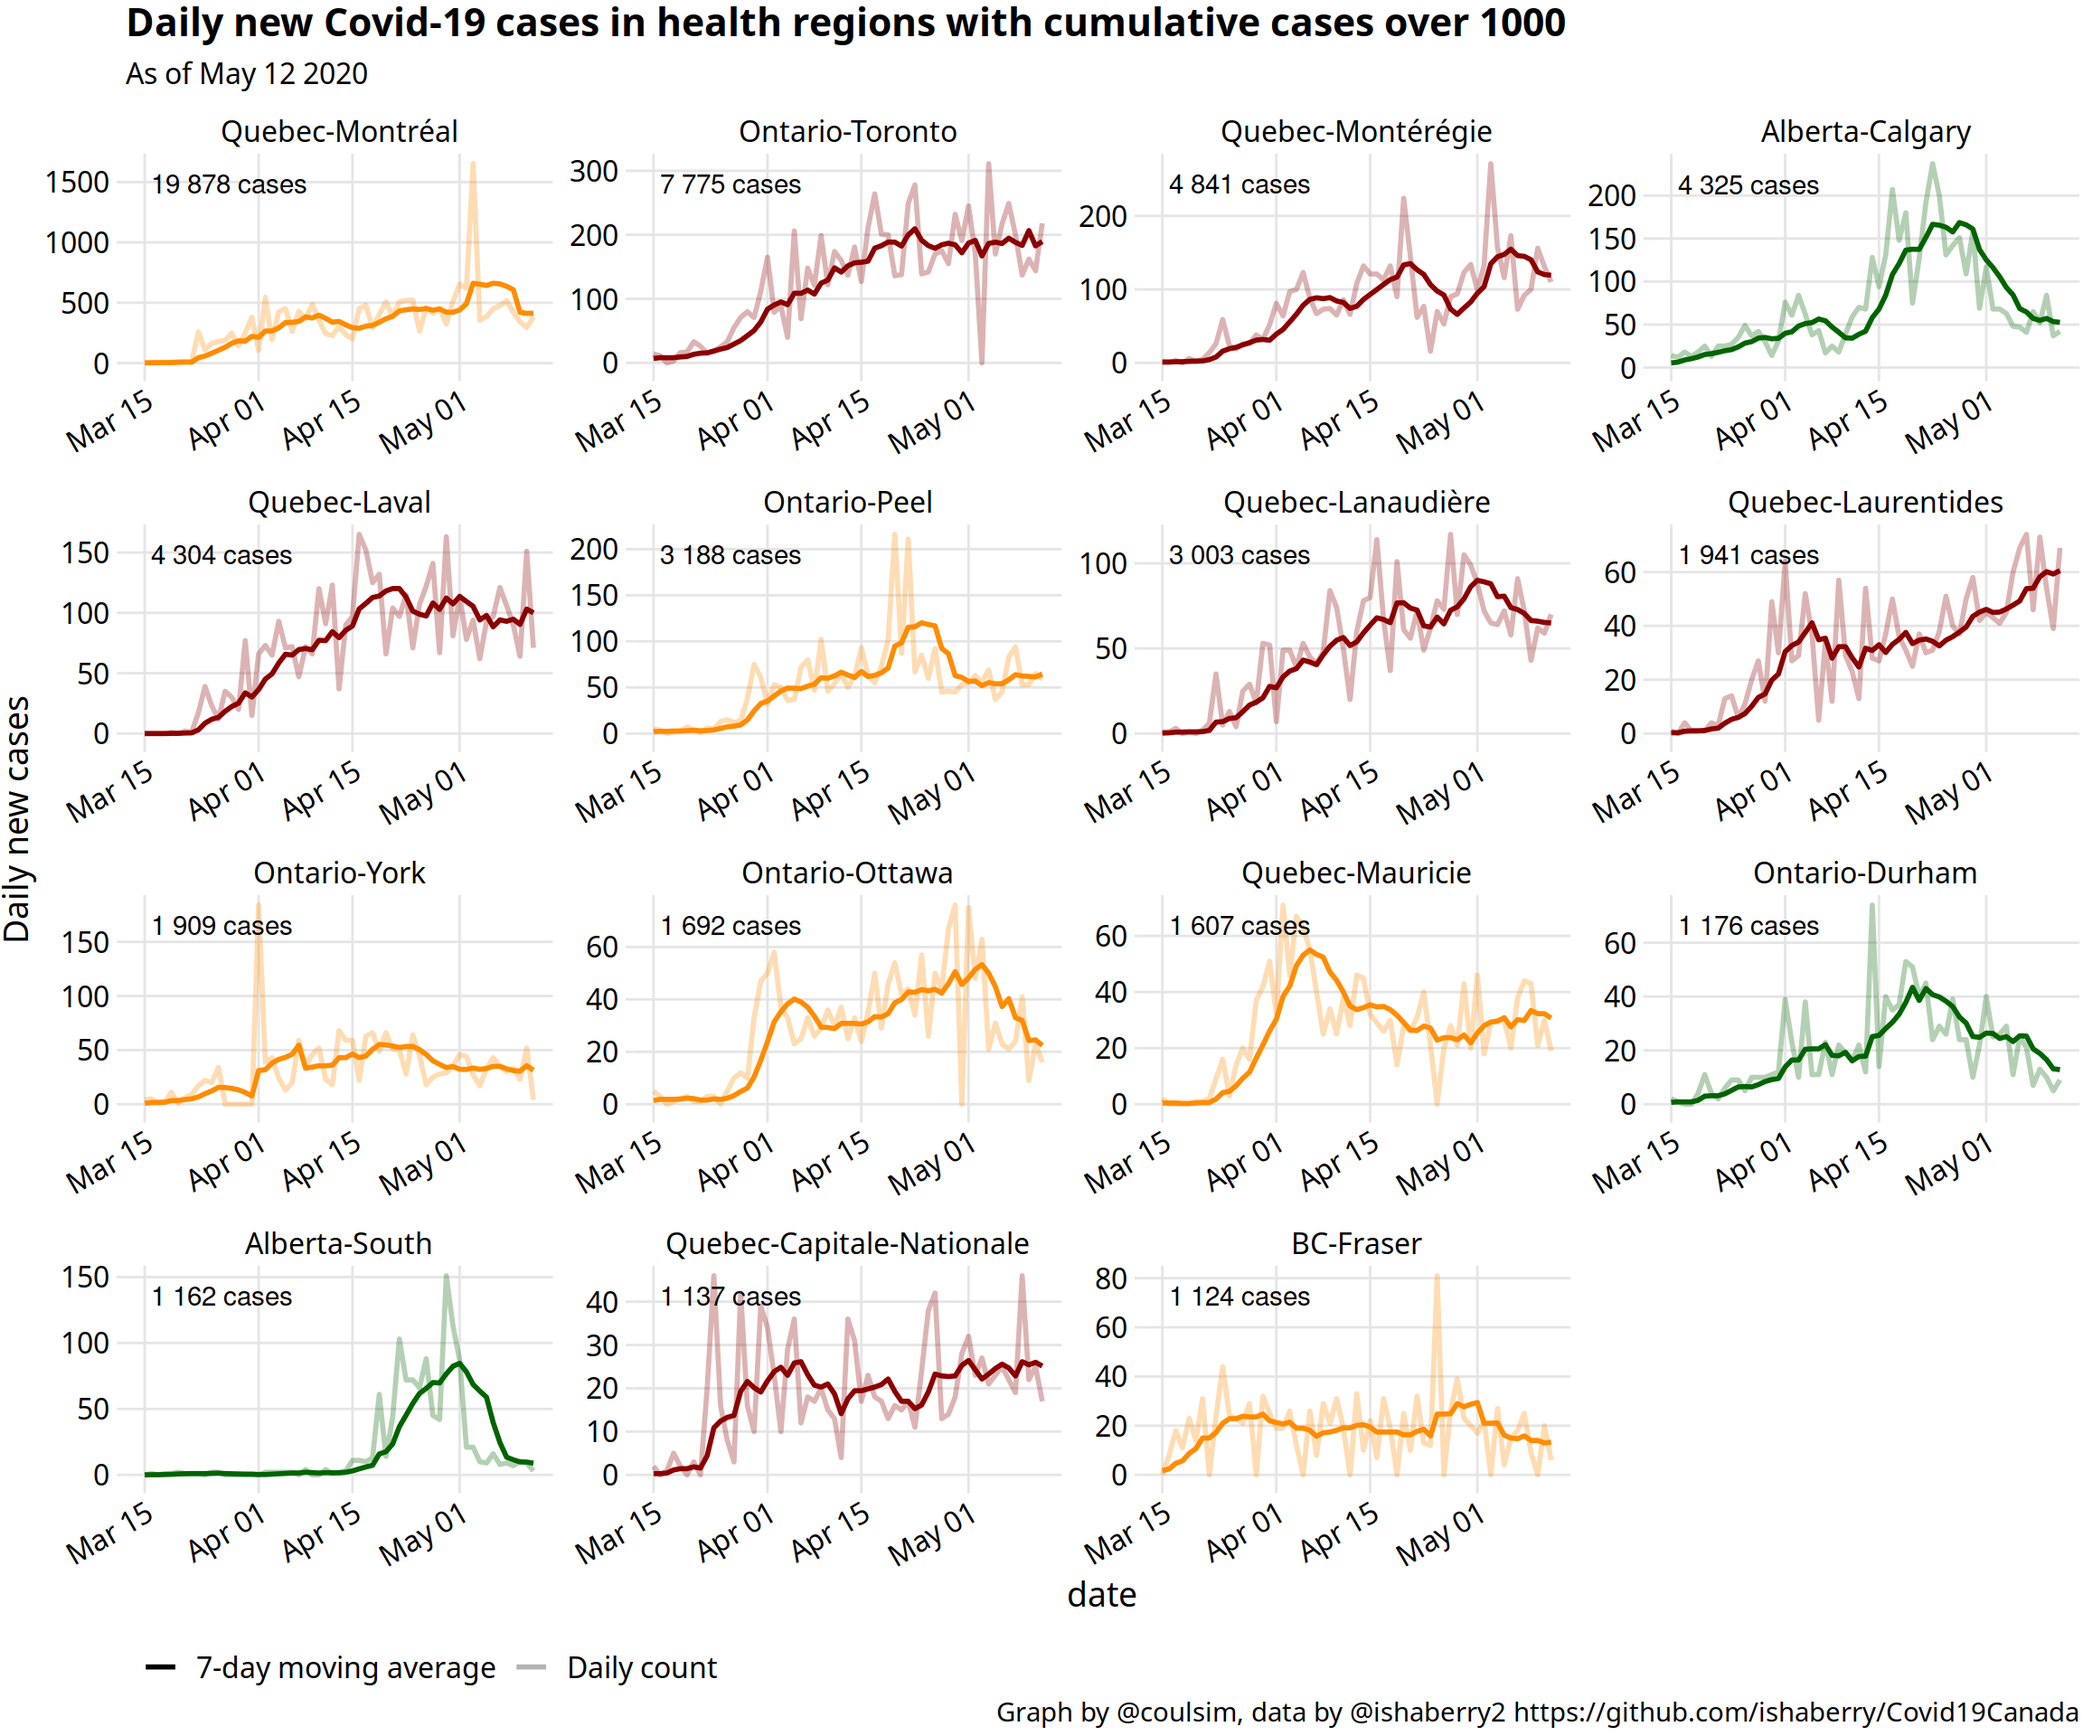
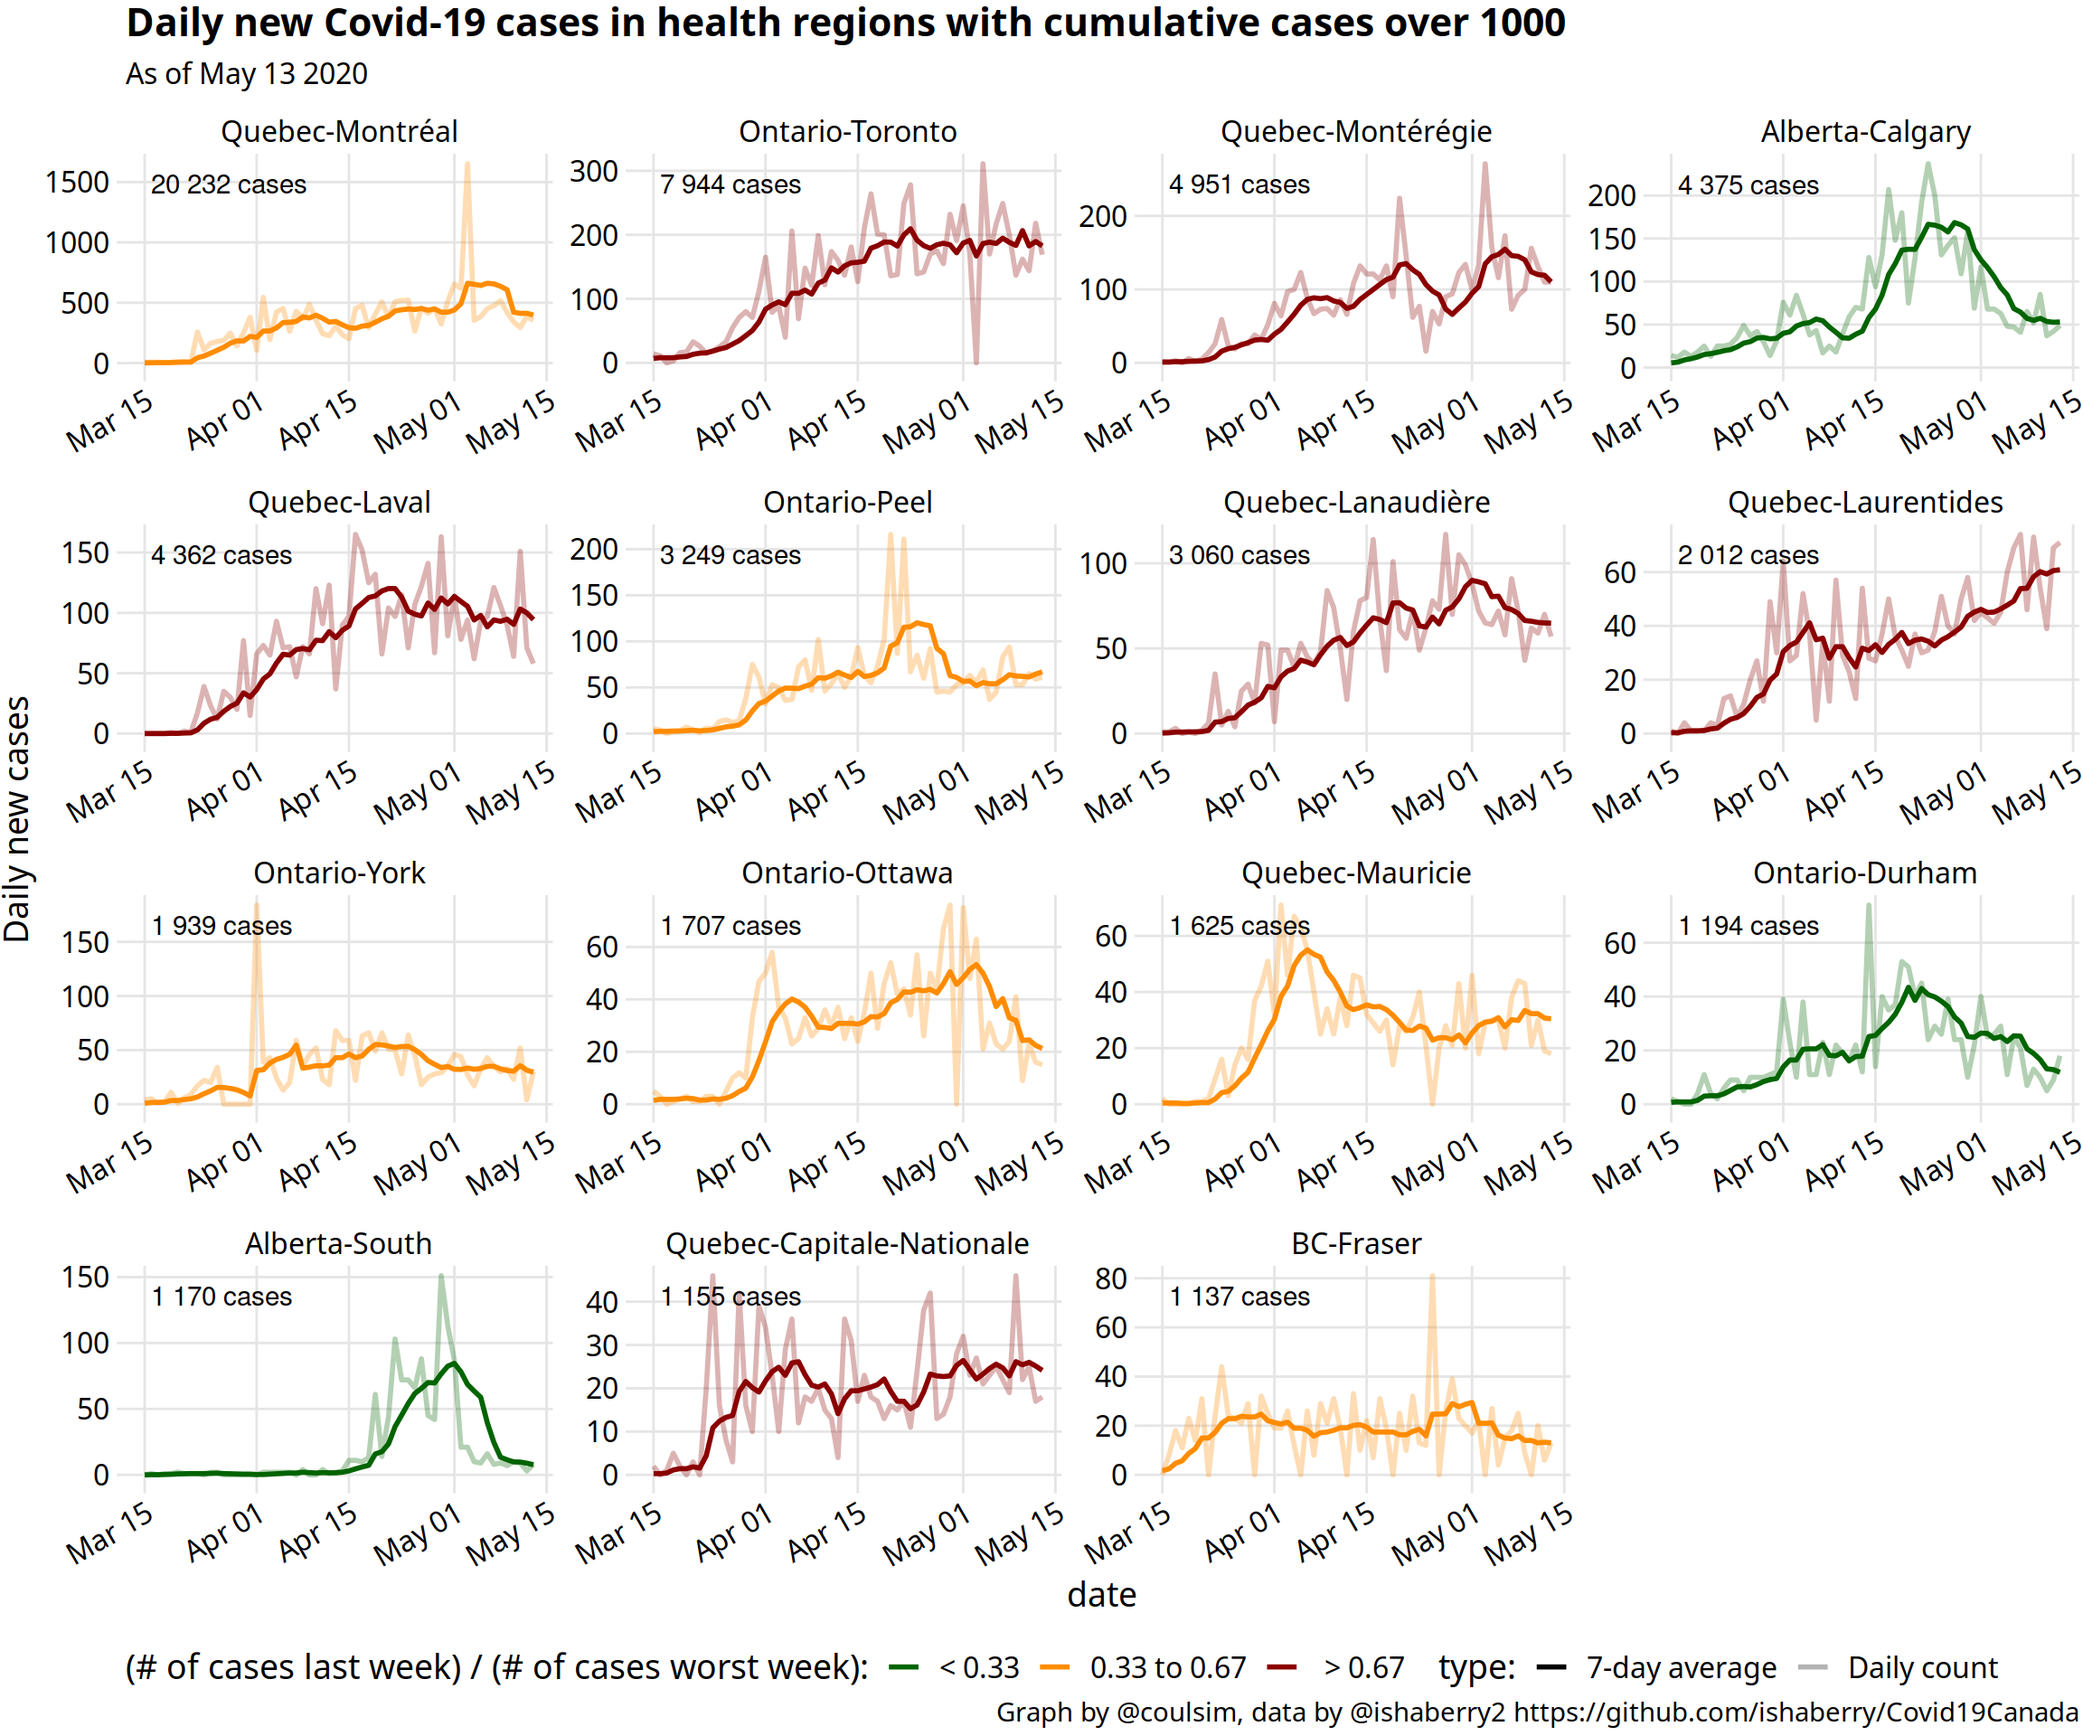
13 mars

diff --git a/content/post/2020-05-10-covid19-cases-in-canadian-health-regions-with-over-1000-cumulative-cases.html b/content/post/2020-05-10-covid19-cases-in-canadian-health-regions-with-over-1000-cumulative-cases.html
@@ -1,5 +1,5 @@
 ---
-title: covid19 cases in canadian health regions with over 1000 cumulative cases
+title: "Local Covid19 cases:   Canadian health regions and Montreal boroughs"
 author: simon
 date: '2020-05-10'
 slug: covid19-cases-in-canadian-health-regions-with-over-1000-cumulative-cases
@@ -9,19 +9,30 @@ categories:
 tags: []
 keywords:
   - tech
+thumbnailImage: "/post/2020-05-10-covid19-cases-in-canadian-health-regions-with-over-1000-cumulative-cases_files/montreal20200512.png" 
+thumbnailImagePosition: left      
 ---
 
 
 
-<p>Quick post inspired by the winning / nearly there / need action graphs by <span class="citation">@yaneerbaryam</span> at <a href="https://www.endcoronavirus.org/countries" class="uri">https://www.endcoronavirus.org/countries</a>.
-We’ll use the data compiled by Isha Berry &amp; friends at <a href="https://github.com/ishaberry/Covid19Canada" class="uri">https://github.com/ishaberry/Covid19Canada</a></p>
-<p>new to me : the new tidyeval that uses {{ }}, and using vars() inside facet_wrap to allow tidyevaluation.</p>
+<p>blo</p>
+<p>Quick post inspired by the winning / nearly there / need action graphs by <span class="citation">@yaneerbaryam</span> at <a href="https://www.endcoronavirus.org/countries" class="uri">https://www.endcoronavirus.org/countries</a>.</p>
+<div id="data" class="section level1">
+<h1>Data</h1>
+<p>Health regions date is compiled by Isha Berry &amp; friends <a href="https://github.com/ishaberry/Covid19Canada">github</a>.
+Montreal boroughs data is <a href="https://santemontreal.qc.ca/population/coronavirus-covid-19/">published daily</a>. They only keep the total and keep no history, so <span class="citation">@bouchecl</span> visits them every day and compiles the data in this <a href="https://docs.google.com/spreadsheets/d/1mOyyeCHwfI_F_T3pAalIdMBxhhfTbM7m5RvbciXIvPM/">google sheet</a></p>
+</div>
+<div id="code" class="section level1">
+<h1>Code</h1>
+<p>As usual, the code <a href="https://github.com/SimonCoulombe/snippets/blob/master/content/post/2020-05-10-covid19-cases-in-canadian-health-regions-with-over-1000-cumulative-cases.Rmd">for this post is on github</a>.</p>
+<p>New to me : the new tidyeval that uses {{ }}, and using vars() inside facet_wrap to allow tidyevaluation.</p>
+</div>
 <div id="canada---health-regions-with-over-1000-cumulative-cases" class="section level1">
 <h1>Canada - health regions with over 1000 cumulative cases</h1>
 <p><img src="/post/2020-05-10-covid19-cases-in-canadian-health-regions-with-over-1000-cumulative-cases_files/figure-html/canada-1.png" width="1152" style="display: block; margin: auto;" /></p>
 </div>
-<div id="provinces" class="section level1">
-<h1>Provinces</h1>
+<div id="provinces-all-health-regions" class="section level1">
+<h1>Provinces (all health regions)</h1>
 <pre><code>## [[1]]</code></pre>
 <p><img src="/post/2020-05-10-covid19-cases-in-canadian-health-regions-with-over-1000-cumulative-cases_files/figure-html/qc-1.png" width="1152" style="display: block; margin: auto;" /></p>
 <pre><code>## 
@@ -58,9 +69,9 @@ We’ll use the data compiled by Isha Berry &amp; friends at <a href="https://gi
 ## [[12]]</code></pre>
 <p><img src="/post/2020-05-10-covid19-cases-in-canadian-health-regions-with-over-1000-cumulative-cases_files/figure-html/qc-12.png" width="1152" style="display: block; margin: auto;" /></p>
 </div>
-<div id="montréal" class="section level1">
-<h1>Montréal</h1>
+<div id="montréal-boroughs" class="section level1">
+<h1>Montréal boroughs</h1>
 <p>données arrondissement montréal
 <img src="/post/2020-05-10-covid19-cases-in-canadian-health-regions-with-over-1000-cumulative-cases_files/figure-html/unnamed-chunk-3-1.png" width="1152" style="display: block; margin: auto;" /></p>
-<p><img src="/post/2020-05-10-covid19-cases-in-canadian-health-regions-with-over-1000-cumulative-cases_files/figure-html/unnamed-chunk-4-1.png" width="1152" style="display: block; margin: auto;" /></p>
+<p><img src="/post/2020-05-10-covid19-cases-in-canadian-health-regions-with-over-1000-cumulative-cases_files/figure-html/montreal-1.png" width="1152" style="display: block; margin: auto;" /></p>
 </div>
